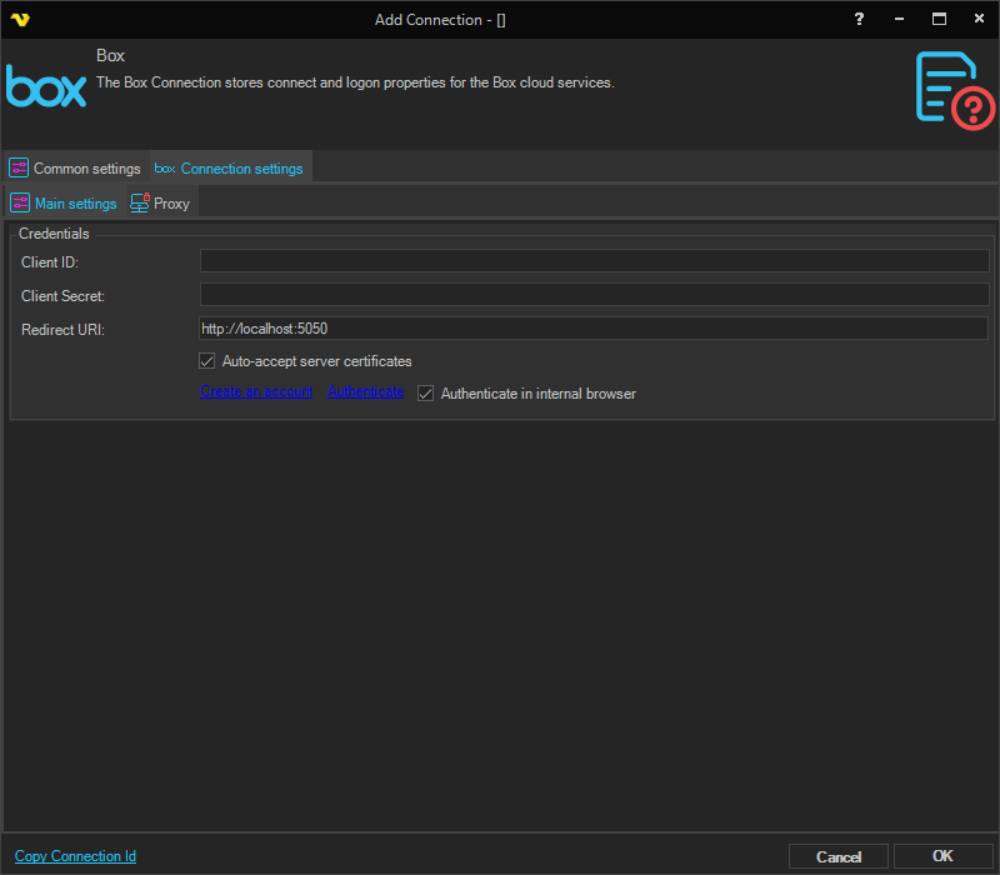
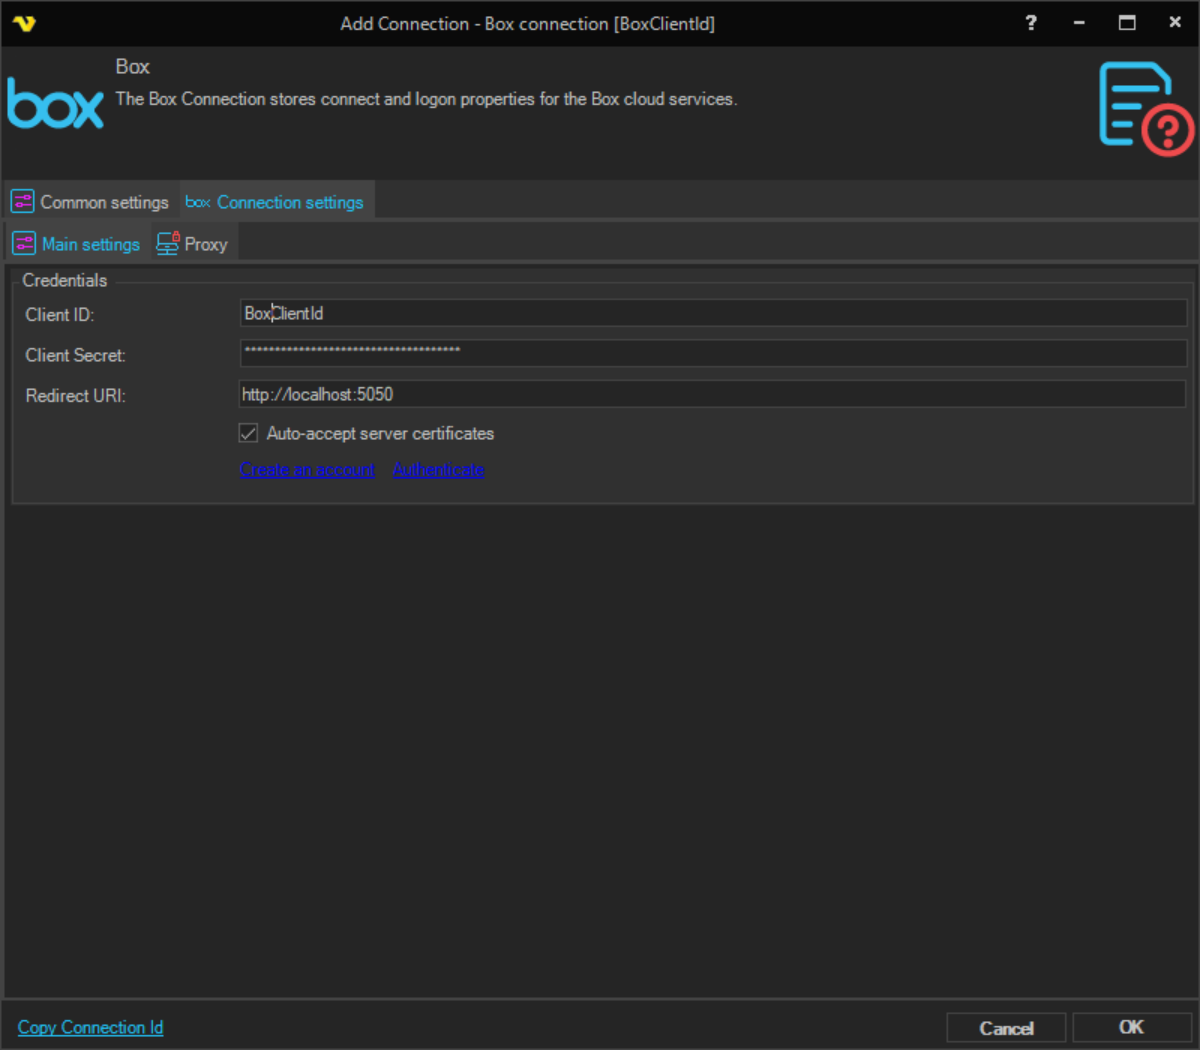
VCPCM-2632: update docs for connections

Changed region(s): [[0.279, 0.0, 0.62, 0.0309], [0.403, 0.432, 0.651, 0.4629], [0.186, 0.2777, 0.372, 0.3394]]

diff --git a/docs/client-user-interface/server/connection-onedrive.md b/docs/client-user-interface/server/connection-onedrive.md
@@ -60,17 +60,12 @@ In order to connect authentication to an account, an app has to be created at th
 **Authenticate**
 
 Click on the Authenticate link to start authentication.
- 
-**Authenticate in internal browser**
 
-You can choose to authenticate in your own browser or externally by checking the Authenticate in internal browser box. Click on the Authenticate link.
- 
 **How to create a connection using the VisualCron app**
 
 In the **OneDrive > Authenticatio**n tab, the Use VisualCron registered app box shall be checked (default).
- 
-1. Check that the *Authenticate in internal browser* box is checked (default)
-2. Click the *Authenticate* link. In the Microsoft authentication window, login using your Microsoft account
+
+1. Click the *Authenticate* link. In the Microsoft authentication window, login using your Microsoft account
 
 ![](../../../static/img/connectiononedrivelogin.png)
 
@@ -97,7 +92,7 @@ You can create the Microsoft OneDrive app either by click on the Setup app link 
 8. Copy the generated password to **OneDrive > Authentication** tab *Application password* field
 9. In the Microsoft application, check the Redirect URL and, if necessary, update the **OneDrive > Extra settings > Redirect URL** information accordingly
 10. Click the *Save* button in the Microsoft application
-11. In the **OneDrive > Authentication** tab, check the *Authenticate in internal browser* box and click on the *Authenticate* link to test the authentication.  In the Microsoft authentication window, login using your Microsoft account
+11. In the **OneDrive > Authentication** tab, click on the *Authenticate* link to test the authentication. In the Microsoft authentication window, login using your Microsoft account
  
 **Manage Connections > Add > OneDrive > Extra settings** tab
 

diff --git a/docs/client-user-interface/server/connection-google-drive.md b/docs/client-user-interface/server/connection-google-drive.md
@@ -61,9 +61,8 @@ If you use your own application you need to uncheck* Use VisualCron registered a
 **How to create a connection using the VisualCron app**
 
 In the **Google Drive > Authentication** tab, the *Use VisualCron registered app* box will be checked (default).
- 
-1. Check that the *Authenticate in internal browser* box is checked (default)
-2. Click the *Authenticate* link. In the Google authentication window, enter your Google login credentials or approve handling (if you are already logged in to Google) of files in Google Drive.
+
+1. Click the *Authenticate* link. In the Google authentication window, enter your Google login credentials or approve handling (if you are already logged in to Google) of files in Google Drive.
 
 ![](../../../static/img/connectiongoogledrivegogglesignin.png)
 

diff --git a/docs/client-user-interface/server/connection-dropbox.md b/docs/client-user-interface/server/connection-dropbox.md
@@ -70,7 +70,7 @@ If you e.g. want your own logo and/or use your own permissions, you may choose t
  
 **How to connect your account to an app (Authentication)**
 
-1. You can choose to authenticate in your own browser or external by checking the Authenticate in internal browser box. Click on the Authenticate link.
+1. Click on the Authenticate link.
 
 ![](../../../static/img/connectiondropboxdropboxsignin.png)
 

diff --git a/docs/client-user-interface/server/connection-box.md b/docs/client-user-interface/server/connection-box.md
@@ -60,7 +60,3 @@ Please note that this url need to match url on Box web site like this:
 **Authenticate**
 
 Click on the Authenticate link to start authentication.
- 
-**Authenticate in internal browser**
-
-You can choose to authenticate in your own browser or externally by checking the *Authenticate in internal browser* box (default). Click the *Authenticate* link.
